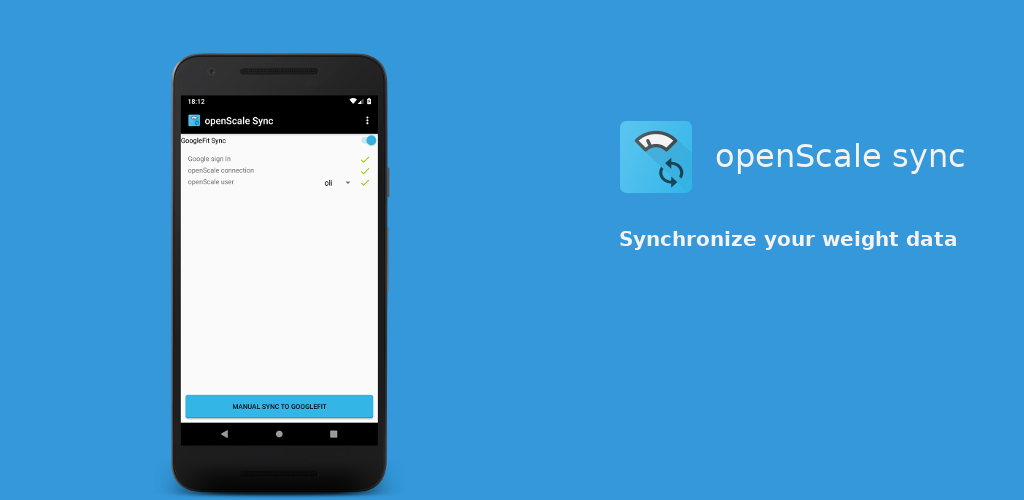
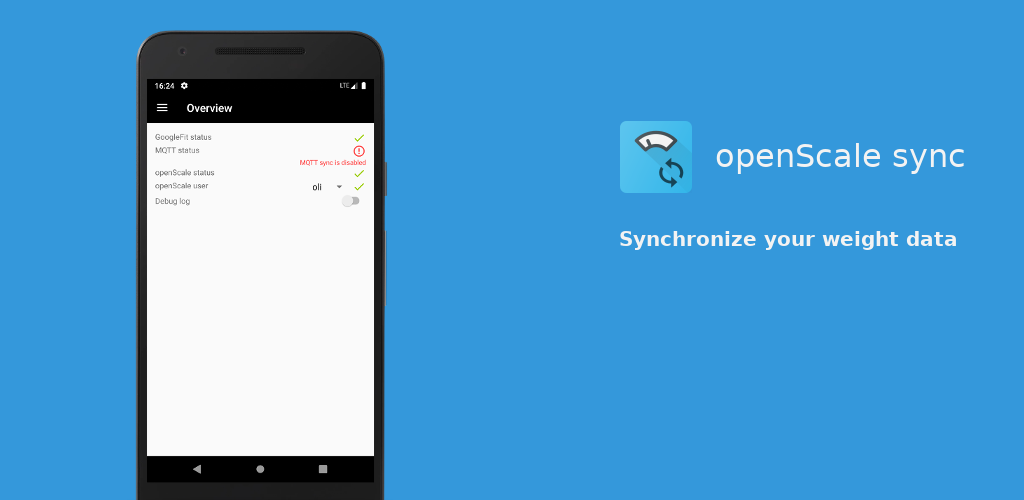
bug fixed when entering empty MQTT credentials

Changed region(s): [[0.125, 0.06, 0.4062, 1.0]]

diff --git a/src/app/src/main/java/com/health/openscale/sync/gui/fragments/MQTTFragment.java b/src/app/src/main/java/com/health/openscale/sync/gui/fragments/MQTTFragment.java
@@ -7,8 +7,6 @@ import android.content.SharedPreferences;
 import android.os.AsyncTask;
 import android.os.Bundle;
 import android.preference.PreferenceManager;
-import android.text.Editable;
-import android.text.TextWatcher;
 import android.view.LayoutInflater;
 import android.view.View;
 import android.view.ViewGroup;
@@ -45,6 +43,7 @@ public class MQTTFragment extends Fragment {
     private EditText txtServer;
     private EditText txtUsername;
     private EditText txtPassword;
+    private Button btnSaveCredentials;
     private Button btnMQTTSync;
     private ProgressBar progressBar;
     private StatusView statusViewMQTT;
@@ -71,11 +70,37 @@ public class MQTTFragment extends Fragment {
         txtServer = fragment.findViewById(R.id.txtServer);
         txtUsername = fragment.findViewById(R.id.txtUsername);
         txtPassword = fragment.findViewById(R.id.txtPassword);
+        btnSaveCredentials = fragment.findViewById(R.id.btnSaveCredentials);
         btnMQTTSync = fragment.findViewById(R.id.btnMQTTSync);
         progressBar = fragment.findViewById(R.id.progressBar);
         statusViewMQTT = new StatusView(getContext(), getResources().getString(R.string.txt_mqtt_status));
 
         mqttMainLayout.addView(statusViewMQTT);
+
+        btnSaveCredentials.setOnClickListener(new View.OnClickListener() {
+            @Override
+            public void onClick(View v) {
+                if (txtServer.getText().toString().isEmpty()) {
+                    txtServer.setError(getResources().getString(R.string.txt_mqtt_field_is_empty));
+                } else {
+                    prefs.edit().putString("mqttServer", txtServer.getText().toString()).commit();
+                }
+
+                if (txtUsername.getText().toString().isEmpty()) {
+                    txtUsername.setError(getResources().getString(R.string.txt_mqtt_field_is_empty));
+                } else {
+                    prefs.edit().putString("mqttUsername", txtUsername.getText().toString()).commit();
+                }
+
+                if (txtPassword.getText().toString().isEmpty()) {
+                    txtPassword.setError(getResources().getString(R.string.txt_mqtt_field_is_empty));
+                } else {
+                    prefs.edit().putString("mqttPassword", txtPassword.getText().toString()).commit();
+                }
+
+                mqttSync.checkStatus(statusViewMQTT);
+            }
+        });
 
         btnMQTTSync.setOnClickListener(new onFullSyncClick());
 
@@ -92,10 +117,6 @@ public class MQTTFragment extends Fragment {
         txtServer.setText(prefs.getString("mqttServer", "tcp://farmer.cloudmqtt.com:16199"));
         txtUsername.setText(prefs.getString("mqttUsername", "ztntplvc"));
         txtPassword.setText(prefs.getString("mqttPassword", "IqdBs7XMr-Kr"));
-
-        txtServer.addTextChangedListener(new onTextChangeListener("mqttServer"));
-        txtUsername.addTextChangedListener(new onTextChangeListener("mqttUsername"));
-        txtPassword.addTextChangedListener(new onTextChangeListener("mqttPassword"));
 
         checkStatusMQTT();
 
@@ -152,30 +173,6 @@ public class MQTTFragment extends Fragment {
                     });
                 }
             });
-        }
-    }
-
-    private class onTextChangeListener implements TextWatcher {
-        private String prefKey;
-
-        public onTextChangeListener(String key) {
-            prefKey = key;
-        }
-
-        @Override
-        public void beforeTextChanged(CharSequence s, int start, int count, int after) {
-
-        }
-
-        @Override
-        public void onTextChanged(CharSequence s, int start, int before, int count) {
-
-        }
-
-        @Override
-        public void afterTextChanged(Editable s) {
-            prefs.edit().putString(prefKey, s.toString()).commit();
-            mqttSync.checkStatus(statusViewMQTT);
         }
     }
 

diff --git a/src/app/src/main/java/com/health/openscale/sync/core/sync/MQTTSync.java b/src/app/src/main/java/com/health/openscale/sync/core/sync/MQTTSync.java
@@ -128,10 +128,15 @@ public class MQTTSync extends ScaleMeasurementSync {
         final String mqttPassword = prefs.getString("mqttPassword", "IqdBs7XMr-Kr");
 
         MqttConnectOptions mqttConnectOptions = new MqttConnectOptions();
-        mqttConnectOptions.setAutomaticReconnect(true);
-        mqttConnectOptions.setCleanSession(true);
-        mqttConnectOptions.setUserName(mqttUsername);
-        mqttConnectOptions.setPassword(mqttPassword.toCharArray());
+
+        try {
+            mqttConnectOptions.setAutomaticReconnect(true);
+            mqttConnectOptions.setCleanSession(true);
+            mqttConnectOptions.setUserName(mqttUsername);
+            mqttConnectOptions.setPassword(mqttPassword.toCharArray());
+        } catch (Exception e) {
+            Timber.e(e.getMessage());
+        }
 
         return mqttConnectOptions;
     }
